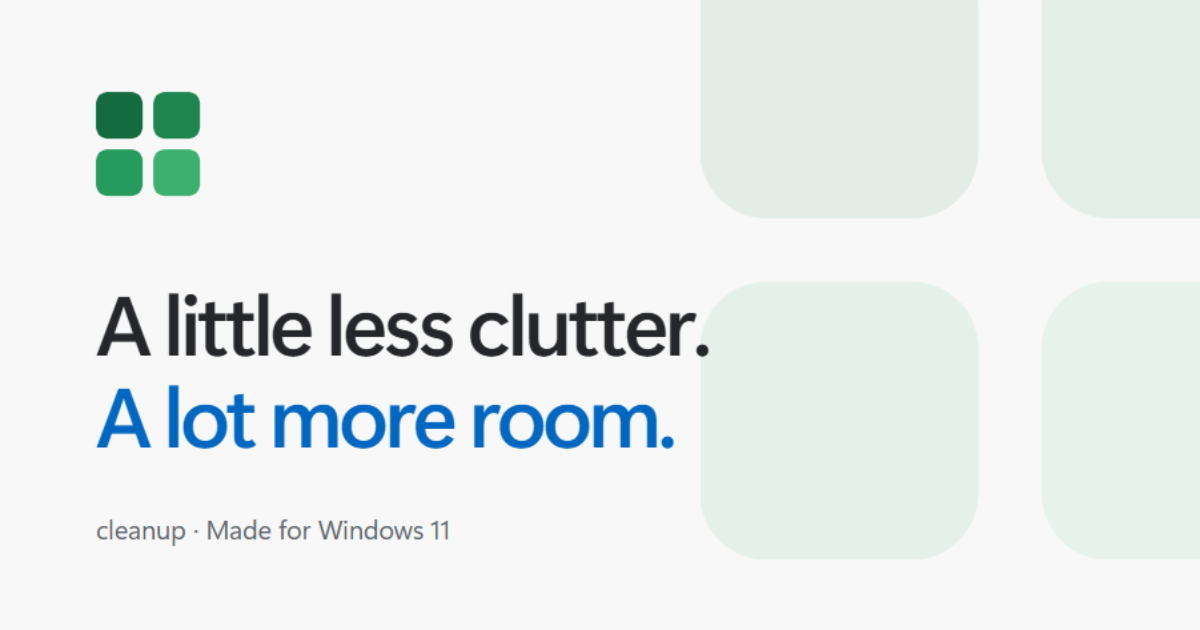
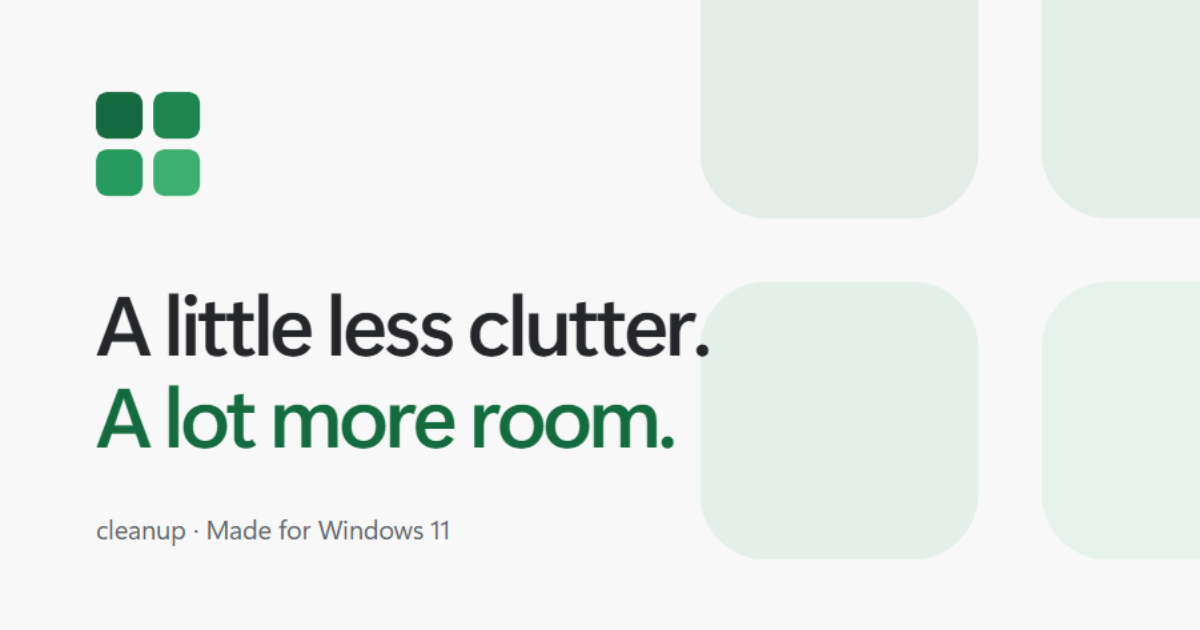
website: use forest green as the accent in both themes
Buttons, links, the hero line, focus rings, text selection, the app
preview accent, and the social card move from Windows blue to the
logo's forest green. Light uses #156b40 with white text (6.5:1); dark
uses #5ed492 with deep green text (8:1). All pairs pass WCAG AA.

Changed region(s): [[0.0617, 0.6032, 0.5858, 0.7238]]

diff --git a/website/src/style.css b/website/src/style.css
@@ -4,14 +4,14 @@
   --font-sans: "Segoe UI Variable", "Segoe UI", system-ui, sans-serif;
 }
 
-:root { font-family: var(--font-sans); color: #242629; background: #f7f8f7; font-synthesis: none; font-feature-settings: "calt" 0; text-rendering: optimizeLegibility; -webkit-font-smoothing: antialiased; --bg: #f7f8f7; --text: #242629; --muted: #60656b; --accent: #0067c0; --accent-strong: #005a9e; --focus-ring: #005a9e; --button-bg: #0067c0; --button-fg: #fff; --button-hover-bg: #005a9e; --button-active-bg: #004578; --button-secondary-bg: #fff; --button-secondary-hover-bg: #eff1f2; --button-secondary-active-bg: #e3e6e8; --button-secondary-fg: #242629; --button-secondary-border: #898f94; --button-secondary-hover-border: #747a80; --button-secondary-active-border: #60676d; --button-disabled-bg: #eceeef; --button-disabled-fg: #4b5054; --icon-hover-bg: #e9ebec; --tint: #f0f2f1; --line: #e4e6e5; --panel: #fff; --window: #f6f6f6; color-scheme: light; }
-:root[data-theme="dark"] { color-scheme: dark; color: #f3f3f3; background: #1b1b1b; --bg: #1b1b1b; --text: #f3f3f3; --muted: #c4c6c8; --accent: #60cdff; --accent-strong: #8bd8f7; --focus-ring: #9adcf9; --button-bg: #60cdff; --button-fg: #00344d; --button-hover-bg: #80d5fa; --button-active-bg: #a0e2fc; --button-secondary-bg: #303030; --button-secondary-hover-bg: #3d3d3d; --button-secondary-active-bg: #4a4a4a; --button-secondary-fg: #f3f3f3; --button-secondary-border: #707070; --button-secondary-hover-border: #858585; --button-secondary-active-border: #999999; --button-disabled-bg: #353535; --button-disabled-fg: #c0c0c0; --icon-hover-bg: #343434; --tint: #242424; --line: #3d3d3d; --panel: #242424; --window: #2b2b2b; }
+:root { font-family: var(--font-sans); color: #242629; background: #f7f8f7; font-synthesis: none; font-feature-settings: "calt" 0; text-rendering: optimizeLegibility; -webkit-font-smoothing: antialiased; --bg: #f7f8f7; --text: #242629; --muted: #60656b; --accent: #156b40; --accent-strong: #105a35; --focus-ring: #156b40; --button-bg: #156b40; --button-fg: #fff; --button-hover-bg: #105a35; --button-active-bg: #0b4729; --button-secondary-bg: #fff; --button-secondary-hover-bg: #eff1f2; --button-secondary-active-bg: #e3e6e8; --button-secondary-fg: #242629; --button-secondary-border: #898f94; --button-secondary-hover-border: #747a80; --button-secondary-active-border: #60676d; --button-disabled-bg: #eceeef; --button-disabled-fg: #4b5054; --icon-hover-bg: #e9ebec; --tint: #f0f2f1; --line: #e4e6e5; --panel: #fff; --window: #f6f6f6; color-scheme: light; }
+:root[data-theme="dark"] { color-scheme: dark; color: #f3f3f3; background: #1b1b1b; --bg: #1b1b1b; --text: #f3f3f3; --muted: #c4c6c8; --accent: #5ed492; --accent-strong: #8ee6b3; --focus-ring: #8ee6b3; --button-bg: #5ed492; --button-fg: #062e18; --button-hover-bg: #7ddfa6; --button-active-bg: #9de8bb; --button-secondary-bg: #303030; --button-secondary-hover-bg: #3d3d3d; --button-secondary-active-bg: #4a4a4a; --button-secondary-fg: #f3f3f3; --button-secondary-border: #707070; --button-secondary-hover-border: #858585; --button-secondary-active-border: #999999; --button-disabled-bg: #353535; --button-disabled-fg: #c0c0c0; --icon-hover-bg: #343434; --tint: #242424; --line: #3d3d3d; --panel: #242424; --window: #2b2b2b; }
 
 /* App preview: Windows 11 (WinUI 3) tokens, sampled from the app's own screenshots. */
 :root {
   --win-font: "Segoe UI Variable Text", "Segoe UI Variable", "Segoe UI", system-ui, sans-serif;
   --win-font-display: "Segoe UI Variable Display", "Segoe UI Variable", "Segoe UI", system-ui, sans-serif;
-  --win-mica: radial-gradient(90% 70% at 0% 0%, #e6e9ec 0, transparent 60%), radial-gradient(80% 60% at 100% 100%, #e4e5e4 0, transparent 60%), #f3f3f3;
+  --win-mica: radial-gradient(90% 70% at 0% 0%, #e5ebe7 0, transparent 60%), radial-gradient(80% 60% at 100% 100%, #e4e5e4 0, transparent 60%), #f3f3f3;
   --win-text: #1f1f1f;
   --win-text-2: #55575a;
   --win-stroke: #0000001a;
@@ -20,26 +20,26 @@
   --win-field-line: #77718a;
   --win-subtle: #0000000f;
   --win-hover: #00000018;
-  --win-selected: #0067c01c;
-  --win-accent: #0067c0;
+  --win-selected: #1a7a4a1c;
+  --win-accent: #1a7a4a;
   --win-accent-text: #ffffff;
-  --win-accent-ink: #005a9e;
-  --win-focus-ring: #005a9e;
+  --win-accent-ink: #156b40;
+  --win-focus-ring: #156b40;
   --win-button-bg: #f5f5f5;
   --win-button-hover: #eaeaea;
   --win-button-active: #dfdfdf;
   --win-button-disabled: #ededed;
   --win-button-disabled-text: #55575a;
-  --win-accent-hover: #005a9e;
-  --win-accent-active: #004578;
-  --win-accent-disabled: #dcebf4;
-  --win-accent-disabled-text: #34424a;
+  --win-accent-hover: #156b40;
+  --win-accent-active: #105a35;
+  --win-accent-disabled: #d9ecdf;
+  --win-accent-disabled-text: #2f4a3a;
   --win-success: #17703a;
   --win-shadow: 0 18px 40px -14px #34383b40, 0 0 0 1px #0000001f;
   --stage-ink: #5e646b;
 }
 :root[data-theme="dark"] {
-  --win-mica: radial-gradient(90% 70% at 0% 0%, #29323b 0, transparent 60%), radial-gradient(80% 60% at 100% 100%, #303436 0, transparent 60%), #242424;
+  --win-mica: radial-gradient(90% 70% at 0% 0%, #29332d 0, transparent 60%), radial-gradient(80% 60% at 100% 100%, #303436 0, transparent 60%), #242424;
   --win-text: #ffffff;
   --win-text-2: #d2d0da;
   --win-stroke: #ffffff17;
@@ -48,20 +48,20 @@
   --win-field-line: #9d98ab;
   --win-subtle: #ffffff14;
   --win-hover: #ffffff1f;
-  --win-selected: #60cdff30;
-  --win-accent: #60cdff;
-  --win-accent-text: #00344d;
-  --win-accent-ink: #9adcf9;
-  --win-focus-ring: #9adcf9;
+  --win-selected: #5ed49230;
+  --win-accent: #5ed492;
+  --win-accent-text: #062e18;
+  --win-accent-ink: #8ee6b3;
+  --win-focus-ring: #8ee6b3;
   --win-button-bg: #323232;
   --win-button-hover: #414141;
   --win-button-active: #4b4b4b;
   --win-button-disabled: #353535;
   --win-button-disabled-text: #c0c0c0;
-  --win-accent-hover: #80d5fa;
-  --win-accent-active: #a0e2fc;
-  --win-accent-disabled: #3e555f;
-  --win-accent-disabled-text: #d5e9f0;
+  --win-accent-hover: #7ddfa6;
+  --win-accent-active: #9de8bb;
+  --win-accent-disabled: #34503f;
+  --win-accent-disabled-text: #d3eadb;
   --win-success: #6ccb5f;
   --win-shadow: 0 18px 44px -12px #0009, 0 0 0 1px #ffffff17;
   --stage-ink: #c2c2c2;
@@ -79,7 +79,7 @@ button:disabled { cursor: default; }
 button, a { touch-action: manipulation; }
 :focus-visible { outline: 3px solid var(--focus-ring); outline-offset: 3px; }
 [hidden] { display: none !important; }
-::selection { background: #cfe4f7; color: #1a2834; }
+::selection { background: #cdebd8; color: #12301f; }
 .icon-definitions { position: absolute; width: 0; height: 0; overflow: hidden; }
 .icon, .feature-icon { width: 20px; height: 20px; fill: none; stroke: currentColor; stroke-width: 1.65; stroke-linecap: round; stroke-linejoin: round; flex-shrink: 0; }
 .icon-fill { fill: currentColor; stroke: none; }
@@ -320,7 +320,7 @@ dialog::backdrop { background: #17102177; backdrop-filter: blur(6px); }
 
 /* Dark theme details */
 [data-theme="dark"] .brand img { content: url('/logo-dark.svg'); }
-[data-theme="dark"] ::selection { background: #244a60; color: #f3f3f3; }
+[data-theme="dark"] ::selection { background: #24563a; color: #f3f3f3; }
 
 /* The preview becomes a tabbed workspace on narrow screens. */
 @container win (max-width: 520px) {
